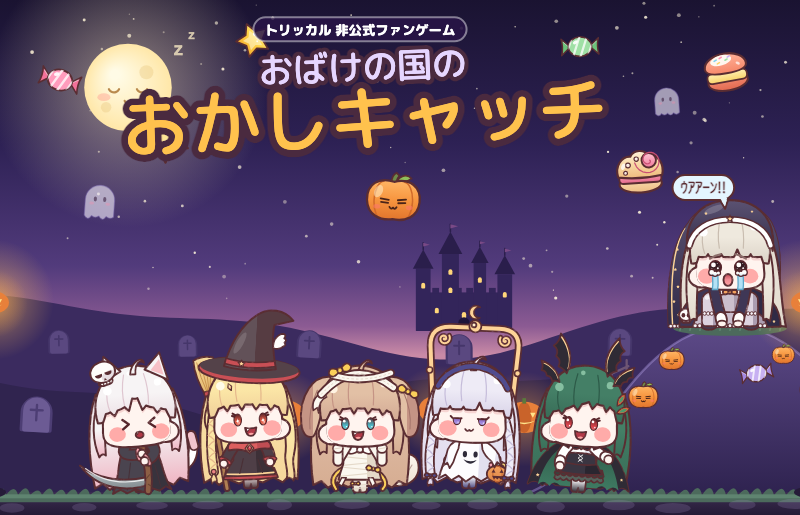
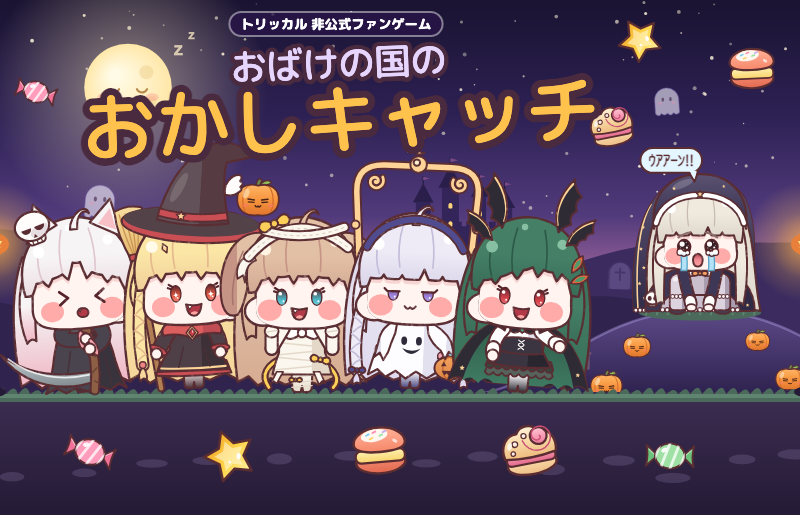
掲載用サムネイルを描き直し、sabanogames のカードで見える上の部分にタイトルと 5 人の顔をおさめ、地面にお菓子を並べる

diff --git a/src/dev/art.ts b/src/dev/art.ts
@@ -16,17 +16,59 @@ canvas.height = H;
 const c = canvas.getContext('2d')!;
 const k = W / 1200;
 
-const ground = H - 34 * k;
-const sr = 50 * k;
-const sx = W - 105 * k;
-const sy = H * 0.5;
+type Kind = Parameters<typeof drawItem>[1];
+
+/** 置き場所（その絵のピクセル）。サムネはカードで上 370px（トップページは 420px）だけ見えるので、顔とタイトルを上に寄せる */
+const ART = og
+  ? {
+      ground: H - 34,
+      charR: 50,
+      charX: [204, 372, 540, 708, 876],
+      spiki: { x: W - 105, y: H * 0.5, r: 50 },
+      title: { x: W * 0.45, pill: 26, sub: [104, 52], main: [184, 104] },
+      items: [
+        ['candy', 90, 120, 30],
+        ['star', 250, 210, 34],
+        ['shucaron', 960, 260, 36],
+        ['mokaron', 1090, 110, 34],
+        ['candy', 870, 70, 28],
+        ['star', 380, 60, 26],
+        ['hobagi', 590, 300, 38],
+        ['candy', 1135, 560, 24],
+      ] as [Kind, number, number, number][],
+      floor: [] as [Kind, number, number, number][],
+    }
+  : {
+      ground: 392,
+      charR: 46,
+      charX: [78, 190, 302, 414, 526],
+      spiki: { x: 700, y: 236, r: 36 },
+      title: { x: 336, pill: 12, sub: [66, 36], main: [124, 74] },
+      items: [
+        ['candy', 36, 92, 20],
+        ['star', 640, 40, 22],
+        ['mokaron', 752, 70, 24],
+        ['shucaron', 612, 128, 22],
+        ['hobagi', 258, 200, 20],
+      ] as [Kind, number, number, number][],
+      floor: [
+        ['candy', 90, 452, 24],
+        ['star', 230, 456, 26],
+        ['mokaron', 380, 452, 28],
+        ['shucaron', 530, 452, 28],
+        ['candy', 670, 456, 24],
+      ] as [Kind, number, number, number][],
+    };
+
+const ground = ART.ground;
+const { x: sx, y: sy, r: sr } = ART.spiki;
 const L: Layout = {
   w: W,
   h: H,
   portrait: false,
   field: { x: 0, y: 0, w: W, h: ground },
   ground,
-  headR: 50 * k,
+  headR: ART.charR,
   catchY: 0.8,
   spiki: { x: sx, y: sy, r: sr, feet: sy + CROUCH_FEET_R * sr },
   score: { x: 0, y: 0, w: 0, h: 0 },
@@ -45,34 +87,23 @@ function draw(): void {
 
   // スピキ（泣いてる）
   drawChibi(c, SPIKI, sx, sy, sr, { expr: 'worried', t: 0.3, turn: -1 });
-  bubble(c, 'ｳｱｱｰﾝ!!', sx - 40 * k, sy - sr * 2.1, 22 * k, sx - 10 * k, '#e4f6ff');
+  bubble(c, 'ｳｱｱｰﾝ!!', sx - 0.8 * sr, sy - sr * 2.1, 22 * k, sx - 0.2 * sr, '#e4f6ff');
 
-  // 降ってくるお菓子
-  const items: [Parameters<typeof drawItem>[1], number, number, number][] = [
-    ['candy', 90, 120, 30],
-    ['star', 250, 210, 34],
-    ['shucaron', 960, 260, 36],
-    ['mokaron', 1090, 110, 34],
-    ['candy', 870, 70, 28],
-    ['star', 380, 60, 26],
-    ['hobagi', 590, 300, 38],
-    ['candy', 1135, 560, 24],
-  ];
-  items.forEach(([kind, x, y, r], i) => drawItem(c, kind, x * k, y * k, r * k, { t: 0.4, phase: i * 1.3, id: i }));
+  // 降ってくるお菓子と、地面に並べたお菓子
+  [...ART.items, ...ART.floor].forEach(([kind, x, y, r], i) => drawItem(c, kind, x, y, r, { t: 0.4, phase: i * 1.3, id: i }));
 
   // 5 人
   const exprs: Expr[] = ['munch', 'happy', 'happy', 'smile', 'happy'];
   const ids = ['kommy', 'elfin', 'butter', 'yomi', 'joanne'] as const;
-  const r = 50 * k;
-  const span = W * 0.7;
+  const r = ART.charR;
   ids.forEach((id, i) => {
-    const x = W * 0.1 + (span * (i + 0.5)) / 5;
+    const x = ART.charX[i];
     const lift = i % 2 ? 6 * k : 0;
     drawChibi(c, CHAR_SPECS[id], x, ground - FEET_R * r - lift, r, { expr: exprs[i], t: 0.4, turn: i < 2 ? 1 : -1, prop: true, tilt: (i - 2) * 0.04 });
   });
 
   // タイトル
-  const tx = W * 0.45;
+  const { x: tx, pill: py, sub, main } = ART.title;
   c.save();
   c.font = font(20 * k);
   const pill = 'トリッカル 非公式ファンゲーム';
@@ -81,22 +112,21 @@ function draw(): void {
   c.strokeStyle = 'rgba(255,255,255,0.45)';
   c.lineWidth = 2;
   c.beginPath();
-  c.roundRect(tx - pw / 2, 26 * k, pw, 36 * k, 18 * k);
+  c.roundRect(tx - pw / 2, py, pw, 36 * k, 18 * k);
   c.fill();
   c.stroke();
   c.fillStyle = C.white;
   c.textAlign = 'center';
   c.textBaseline = 'middle';
-  c.fillText(pill, tx, 45 * k);
+  c.fillText(pill, tx, py + 19 * k);
   c.translate(tx, 0);
   c.rotate(-0.04);
-  outlined(c, 'おばけの国の', 0, 104 * k, { size: 52 * k, font: popFont(52 * k), fill: '#e6d6ff', stroke: C.ink, width: 14 * k });
-  outlined(c, 'おかしキャッチ', 0, 184 * k, { size: 104 * k, font: popFont(104 * k), fill: '#ffc24d', stroke: C.ink, width: 22 * k });
+  outlined(c, 'おばけの国の', 0, sub[0], { size: sub[1], font: popFont(sub[1]), fill: '#e6d6ff', stroke: C.ink, width: sub[1] * 0.27 });
+  outlined(c, 'おかしキャッチ', 0, main[0], { size: main[1], font: popFont(main[1]), fill: '#ffc24d', stroke: C.ink, width: main[1] * 0.21 });
   c.restore();
   // ?kind=… を headless の --dump-dom で取り出せるよう、PNG を本文に書き出す
   const out = document.createElement('pre');
   out.id = 'png';
   out.textContent = canvas.toDataURL('image/png');
   document.body.append(out);
-
 }
